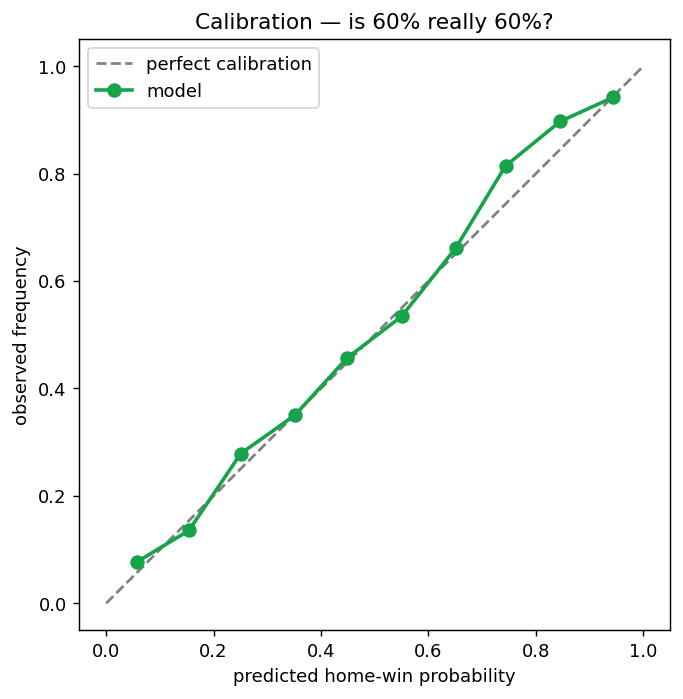
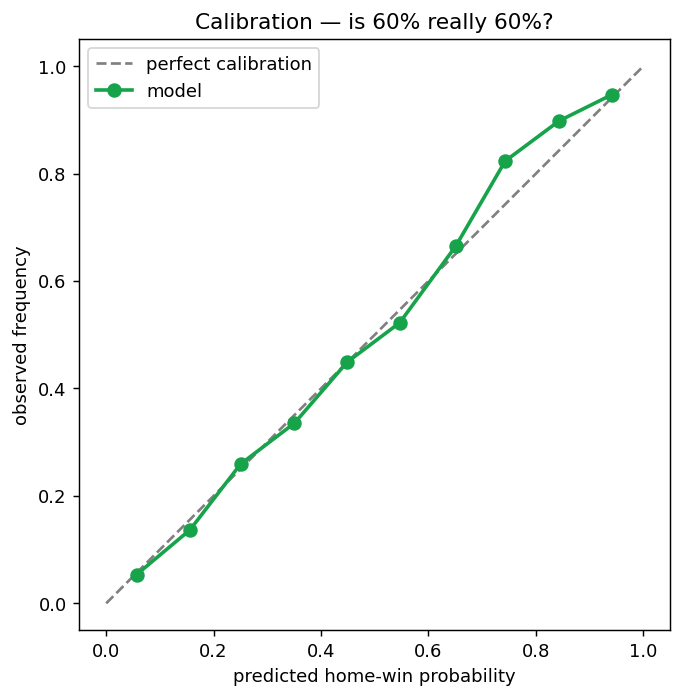
Refresh README and calibration asset

diff --git a/README.md b/README.md
@@ -3,7 +3,7 @@
 # Who Wins the 2026 World Cup?
 ### A Live, Calibrated Forecast using Bivariate-Poisson Simulation
 
-**[Live Demo](https://world-cup-2026-live-forecastergit-d5gyjvqnobu5qfi2xliuja.streamlit.app/)** | **[GitHub Repo]https://github.com/abenezer4/World-cup-2026-live-forecaster.git*
+**[🔗 Live Demo](https://world-cup-2026-live-forecastergit-d5gyjvqnobu5qfi2xliuja.streamlit.app/)** | **[📂 GitHub Repo](https://github.com/abenezer4/World-cup-2026-live-forecaster.git)**
 
 ---
 
@@ -52,7 +52,7 @@ Everything is ready for immediate execution.
 
 ### 1. Setup
 ```bash
-git clone hhttps://github.com/abenezer4/World-cup-2026-live-forecaster.git
+git clone https://github.com/abenezer4/World-cup-2026-live-forecaster.git
 cd wc2026-forecast
 pip install -r requirements.txt
 ```
@@ -70,7 +70,7 @@ streamlit run app.py
 
 ---
 
-## � Project Structure
+## Project Structure
 
 ```
 wc2026/